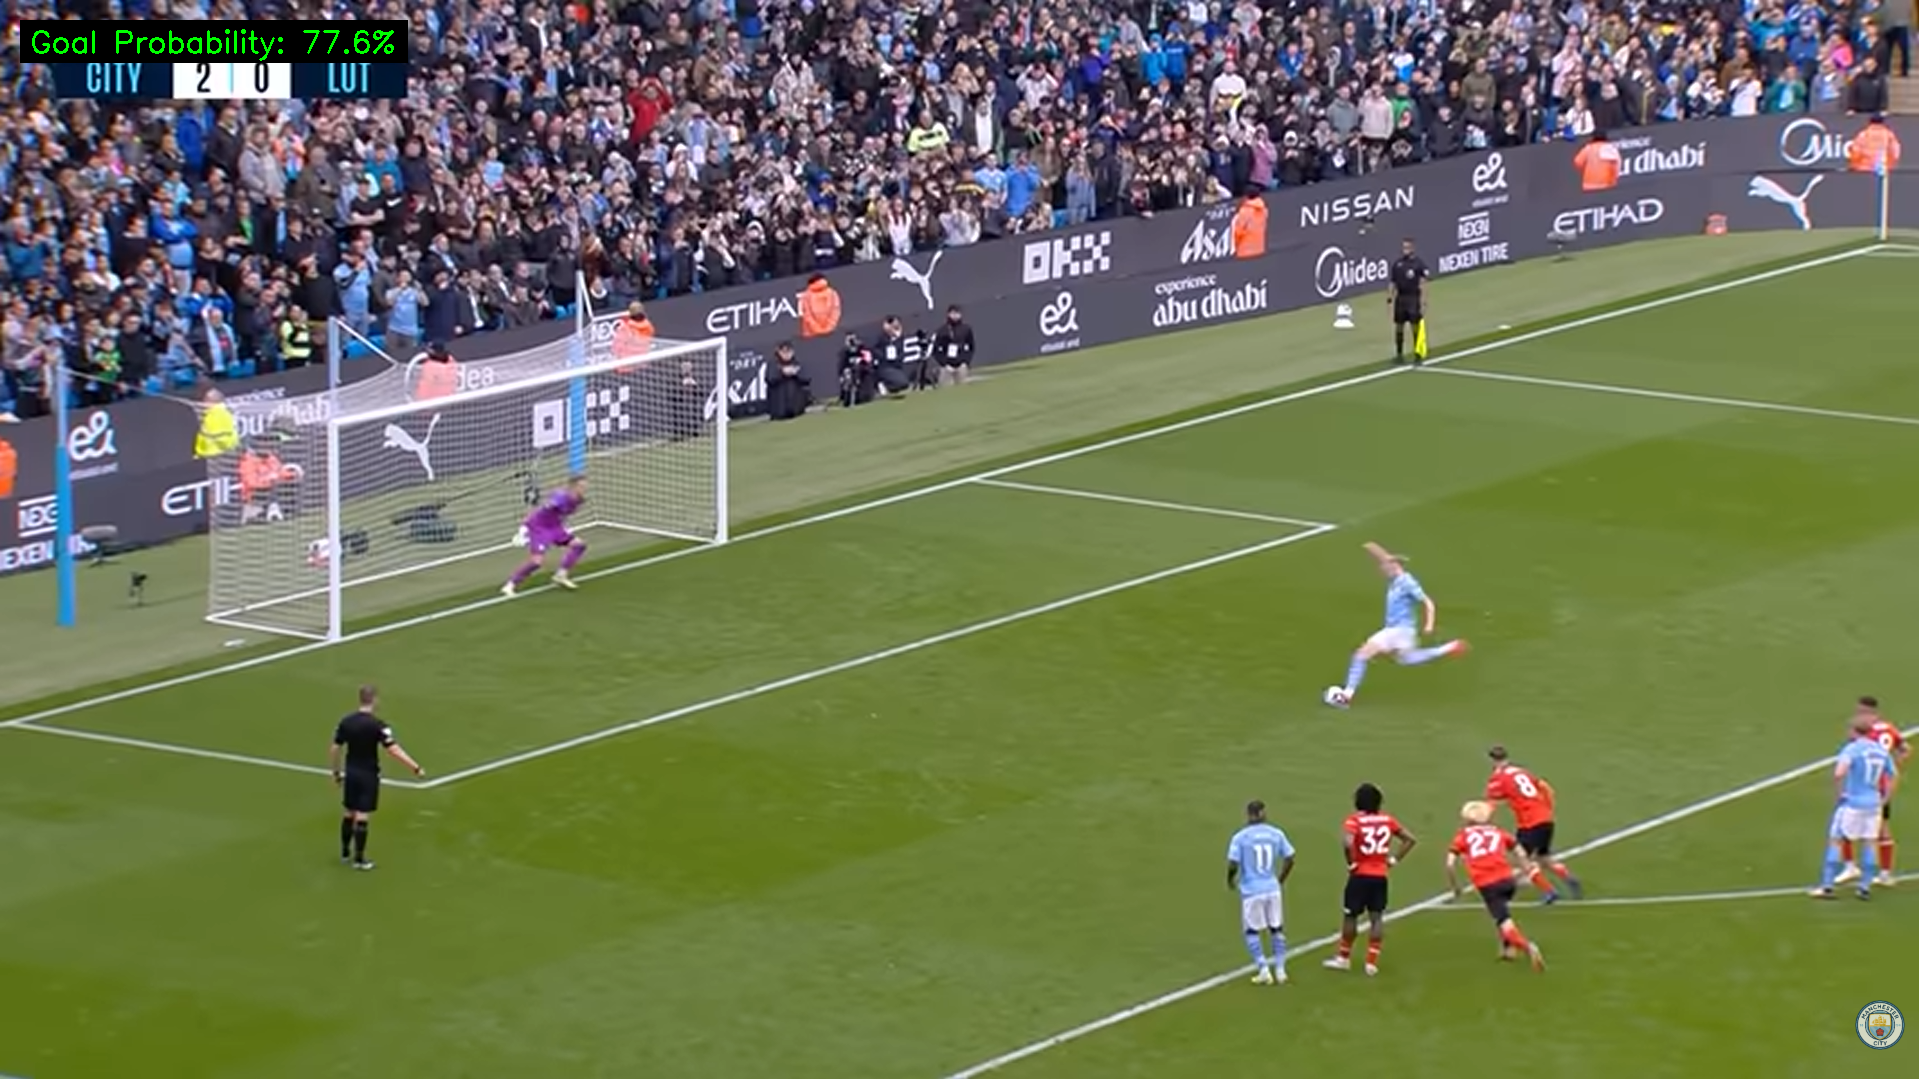
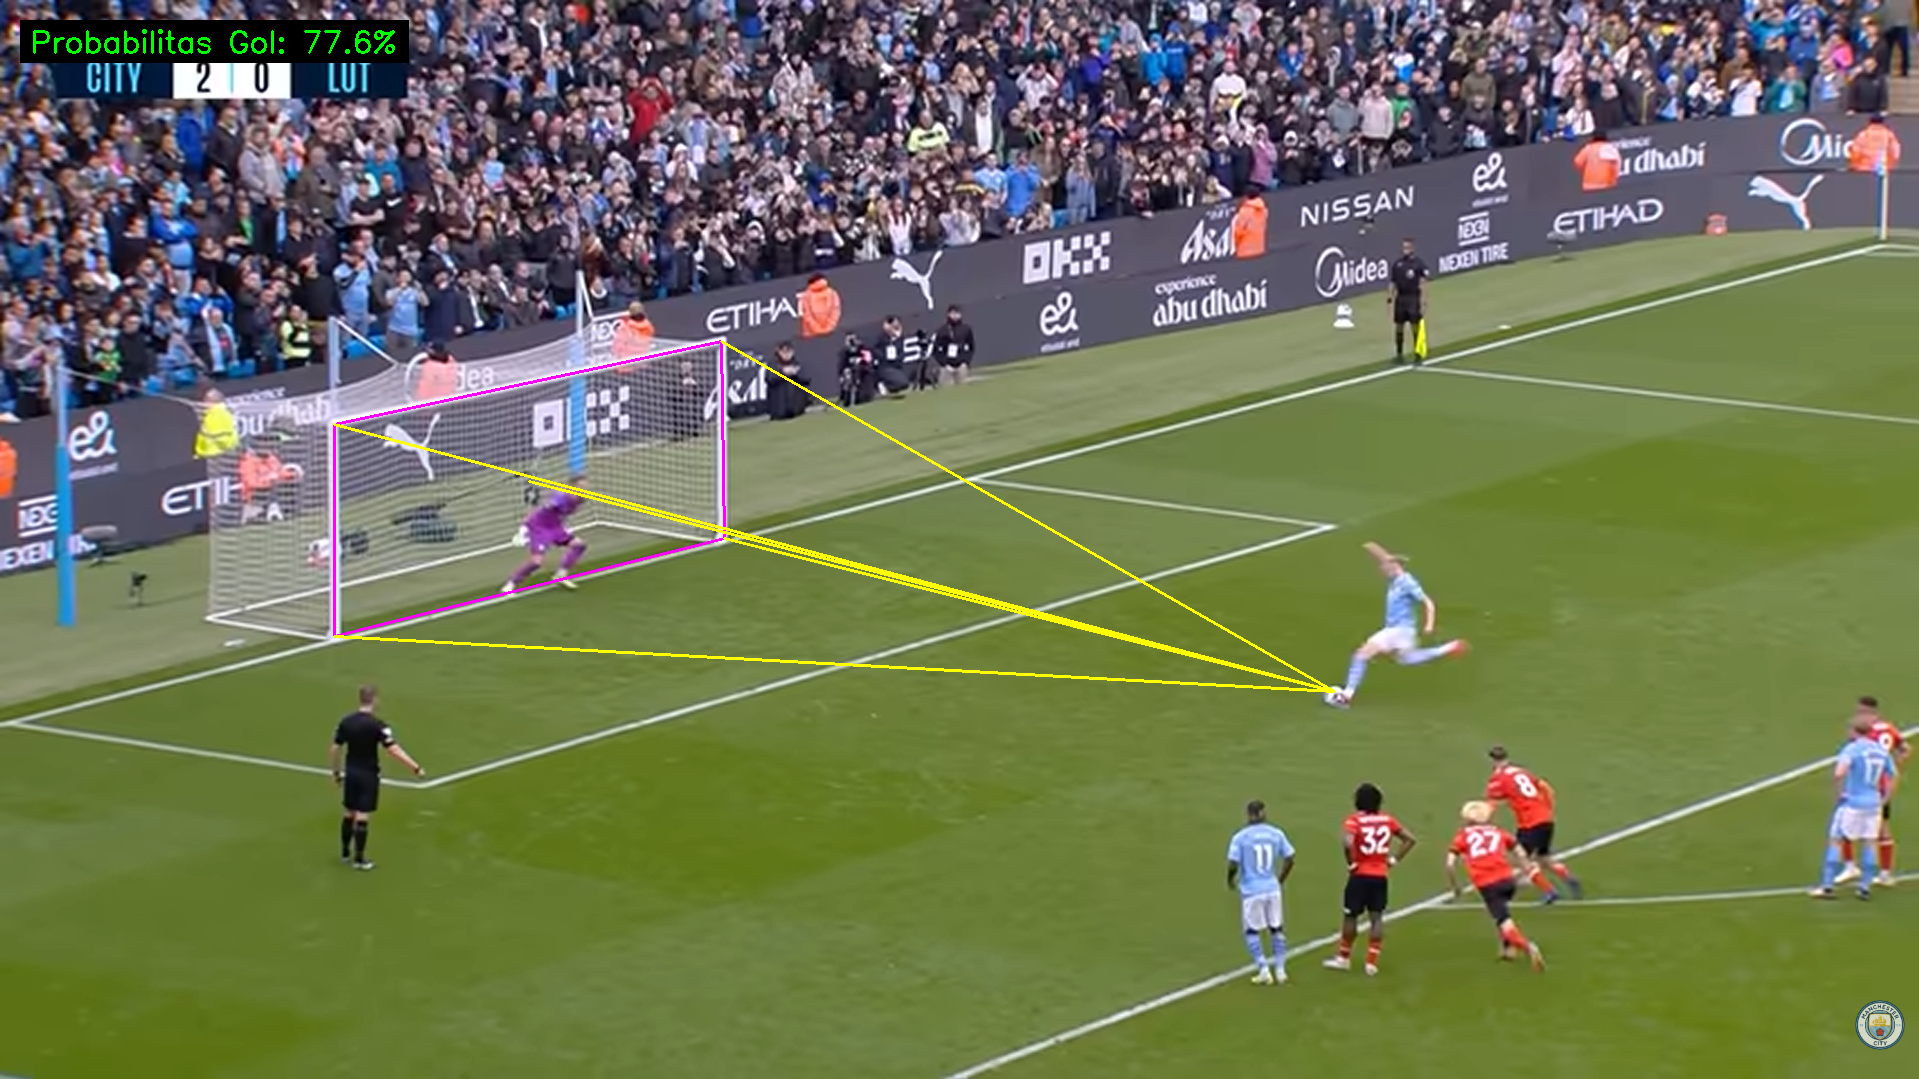
chore: add testcase output

diff --git a/utils.py b/utils.py
@@ -143,11 +143,6 @@ class ImageMarker:
         return self.points
 
 def draw_visualizations(image, points, xg_value):
-    """
-    Draws the xG visualization on the image.
-    points: dict of point_name -> (x, y)
-    xg_value: float (0.0 to 1.0)
-    """
     img = image.copy()
     
     # Colors (BGR)
@@ -156,39 +151,37 @@ def draw_visualizations(image, points, xg_value):
     COLOR_GREEN = (0, 255, 0)
     COLOR_BLACK = (0, 0, 0)
     
-    # 1. Draw Goal Structure (if points exist)
-    # Required: Goal Top-Left, Goal Top-Right, Goal Bottom-Right, Goal Bottom-Left
-    required_goal = ["Goal Top-Left", "Goal Top-Right", "Goal Bottom-Right", "Goal Bottom-Left"]
-    if all(k in points for k in required_goal):
+    gtl = None; gtr = None; gbl = None; gbr = None
+    if all(k in points for k in ["Tiang Atas-Kiri", "Tiang Atas-Kanan", "Tiang Bawah-Kiri", "Tiang Bawah-Kanan"]):
+        gtl = points["Tiang Atas-Kiri"]
+        gtr = points["Tiang Atas-Kanan"]
+        gbl = points["Tiang Bawah-Kiri"]
+        gbr = points["Tiang Bawah-Kanan"]
+    elif all(k in points for k in ["Goal Top-Left", "Goal Top-Right", "Goal Bottom-Left", "Goal Bottom-Right"]):
         gtl = points["Goal Top-Left"]
         gtr = points["Goal Top-Right"]
-        gbr = points["Goal Bottom-Right"]
         gbl = points["Goal Bottom-Left"]
-        
-        # Draw Goal Box
+        gbr = points["Goal Bottom-Right"]
+
+    ball_key = "Bola" if "Bola" in points else ("Ball" if "Ball" in points else None)
+    ball = points[ball_key] if ball_key else None
+
+    if gtl and gtr and gbl and gbr:
         cv2.line(img, gtl, gtr, COLOR_PINK, 2)
         cv2.line(img, gtr, gbr, COLOR_PINK, 2)
         cv2.line(img, gbr, gbl, COLOR_PINK, 2)
         cv2.line(img, gbl, gtl, COLOR_PINK, 2)
-        
-        # 2. Draw Triangle/Cone from Ball
-        if "Ball" in points:
-            ball = points["Ball"]
-            cv2.line(img, ball, gbl, COLOR_PINK, 2)
-            cv2.line(img, ball, gbr, COLOR_PINK, 2)
-            
-            # 3. Draw Trajectory (Yellow lines to corners or center)
-            # Center of goal
+
+        if ball:
+            cv2.line(img, ball, gtl, COLOR_YELLOW, 2)
+            cv2.line(img, ball, gtr, COLOR_YELLOW, 2)
+            cv2.line(img, ball, gbr, COLOR_YELLOW, 2)
+            cv2.line(img, ball, gbl, COLOR_YELLOW, 2)
             goal_center = ((gtl[0] + gbr[0]) // 2, (gtl[1] + gbr[1]) // 2)
             cv2.line(img, ball, goal_center, COLOR_YELLOW, 2)
-            
-            # Optional: Lines to top corners for "cone" effect
-            cv2.line(img, ball, gtl, COLOR_YELLOW, 1)
-            cv2.line(img, ball, gtr, COLOR_YELLOW, 1)
 
     # 4. Draw Overlay Text
-    # "Goal Probability: XX.X%"
-    text = f"Goal Probability: {xg_value * 100:.1f}%"
+    text = f"Probabilitas Gol: {xg_value * 100:.1f}%"
     font = cv2.FONT_HERSHEY_SIMPLEX
     font_scale = 1.0 # Slightly larger
     thickness = 2
